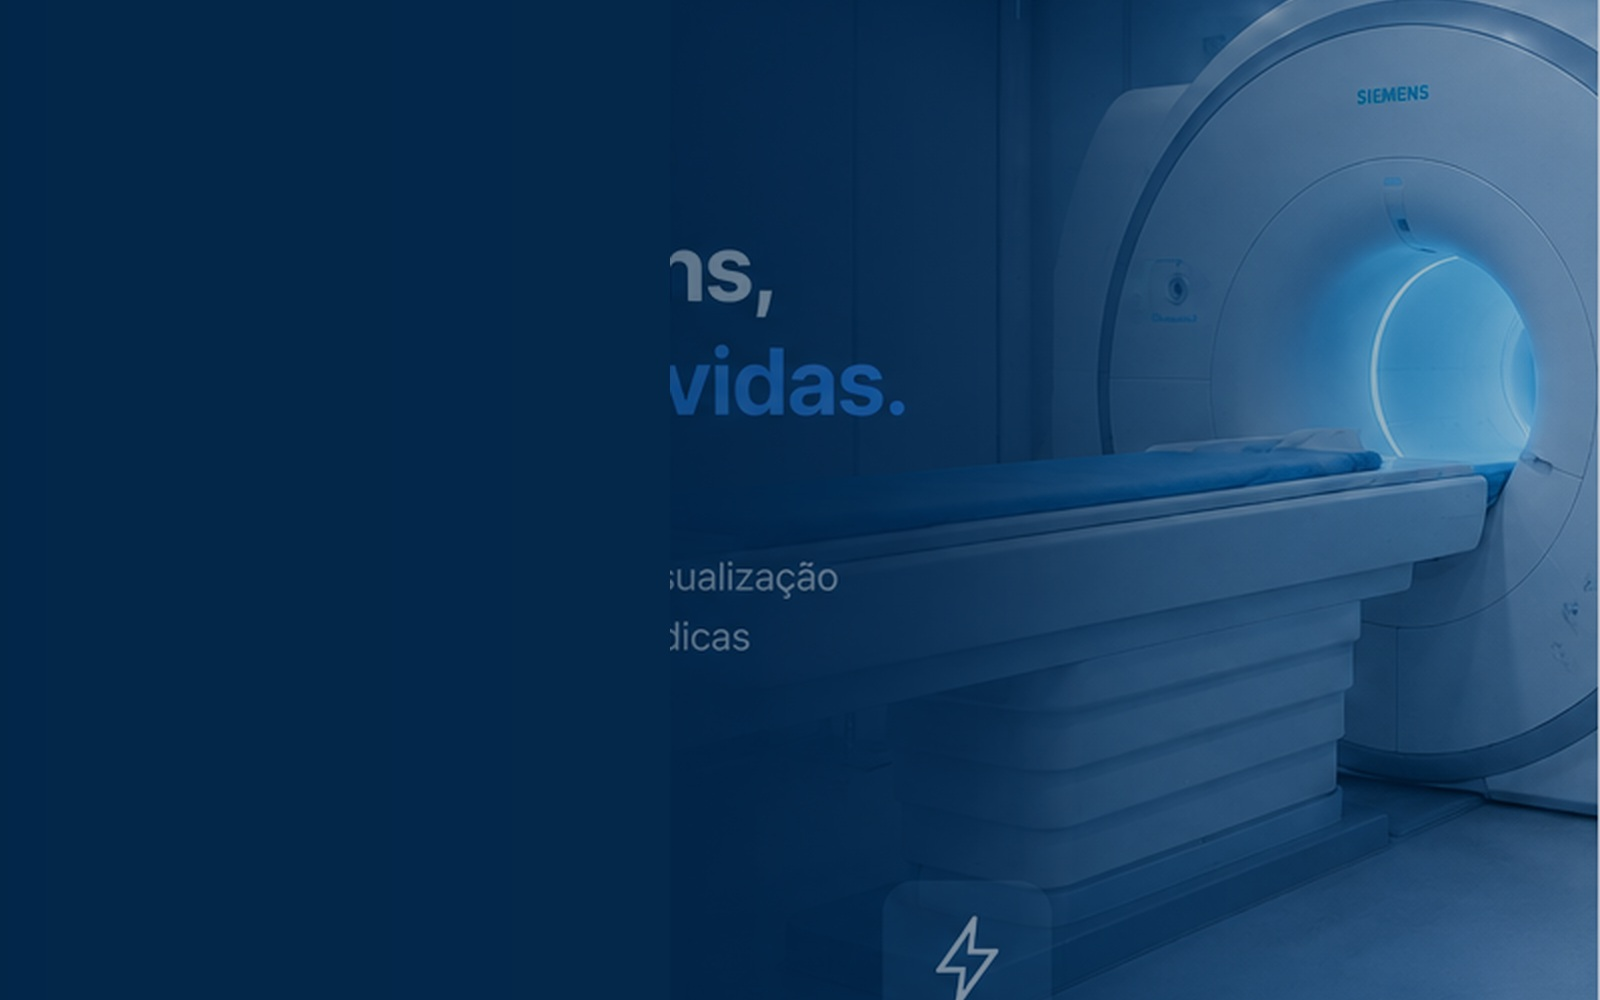
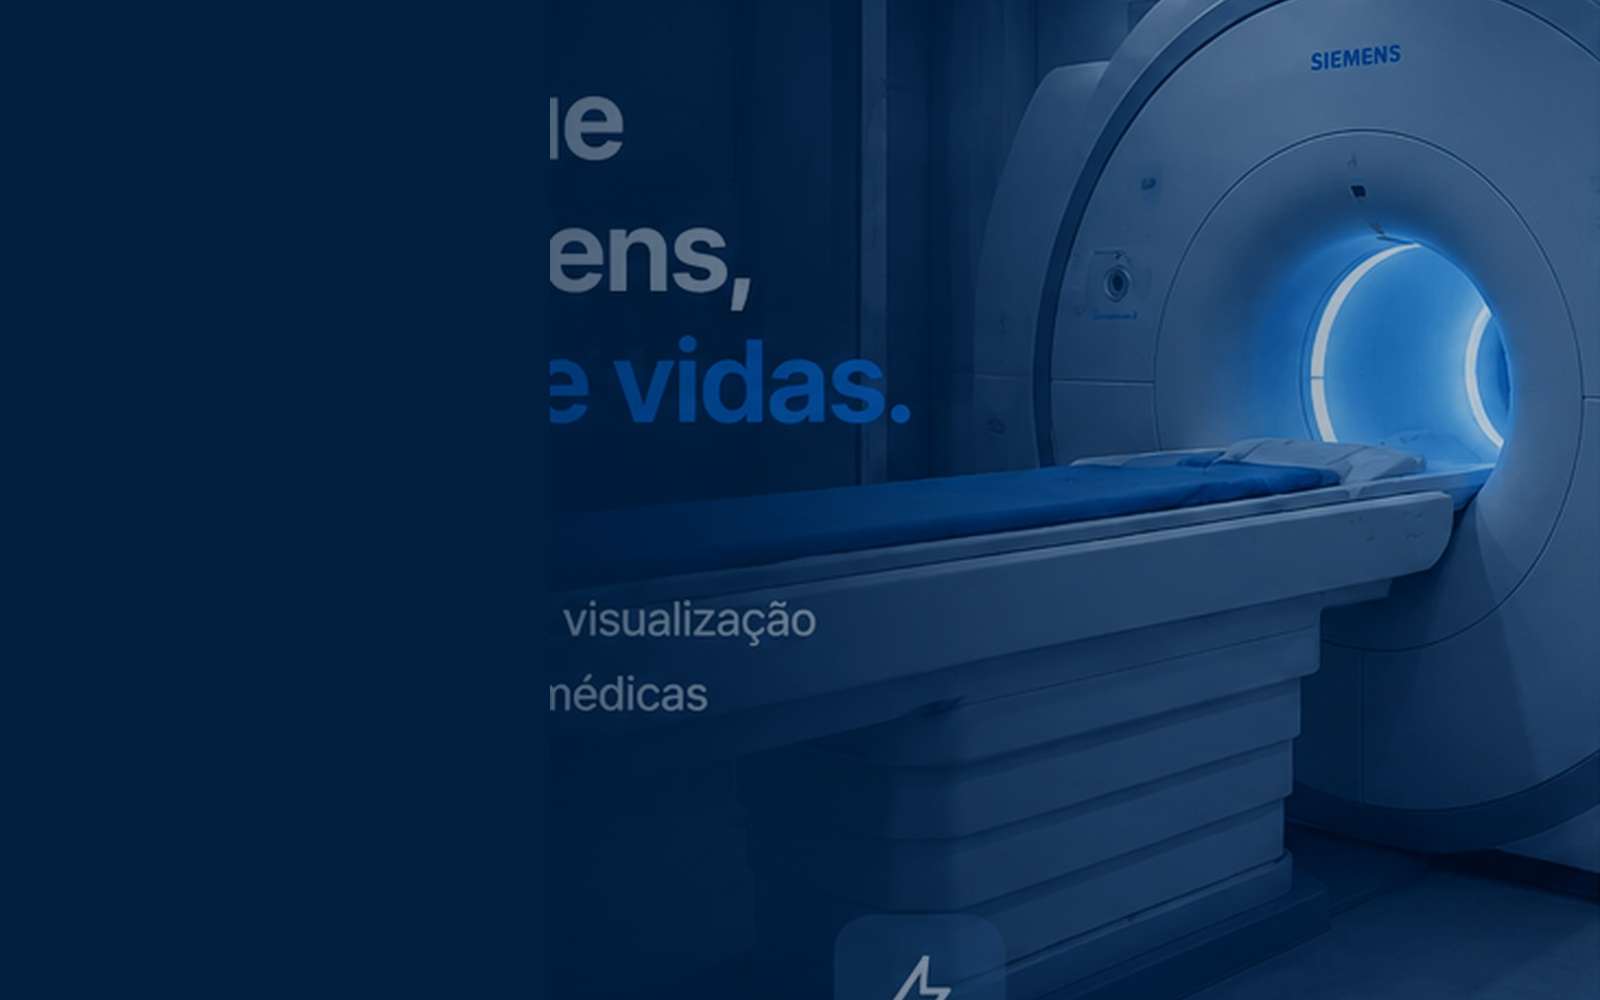
Add files via upload

diff --git a/README.md b/README.md
@@ -55,3 +55,8 @@ O formulário visual está pronto. O `submit` em `app.js` deve ser conectado ao 
 ## Observação
 
 Os caminhos dos assets usam `./`, o que facilita publicar esta pasta em subdiretórios e também testar em servidores locais.
+
+## Referência visual aprovada
+
+O arquivo `preview-aprovado.png` contém a referência visual aprovada para esta versão.
+O arquivo `login-background.jpg` é o asset de fundo usado pela página.
